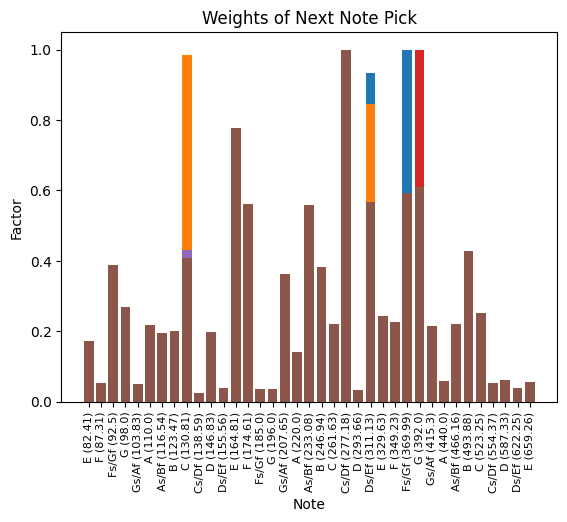
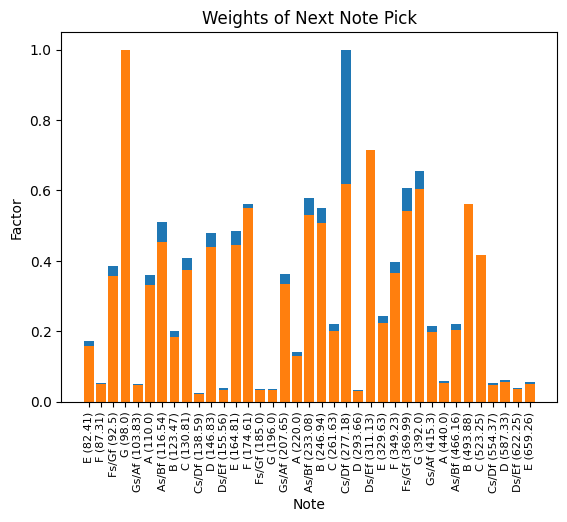
added random picking

Changed region(s): [[0.1499, 0.092, 0.9594, 0.7969]]

diff --git a/constants.py b/constants.py
@@ -71,3 +71,6 @@ DISPLAY_ANSWER_TIME = 1# seconds
 # GuessMaker
 GUESS_CACHE_LEN = 10 # how many guesses stores in guessmaker cache
 GUESS_OUTLIER_AVG = 3 # how many guesses are used to detect outlier entries 
+
+# if true then notes and intervals are randomly chosen, if false then follows eq.
+RANDOM_NOT_DYNAMIC_PICKING = True

diff --git a/play_notes.py b/play_notes.py
@@ -46,6 +46,8 @@ def choose_note(curr_stats, hist_stats):
     SMALL_NUM = (1/78)
     prob_dist = [x + SMALL_NUM for x in prob_dist]
 
+    if RANDOM_NOT_DYNAMIC_PICKING:
+        prob_dist = [SMALL_NUM for x in prob_dist]
 
     return random.choices(hist_stats, prob_dist, k=1)[0]
         

diff --git a/play_intervals.py b/play_intervals.py
@@ -51,6 +51,9 @@ def choose_interval(curr_stats, hist_stats):
 
     prob_dist = [x + SMALL_NUM for x in prob_dist]
 
+    if RANDOM_NOT_DYNAMIC_PICKING:
+        prob_dist = [SMALL_NUM for x in prob_dist]
+
     return random.choices(hist_stats, prob_dist, k=1)[0]
 
 # draw note names
